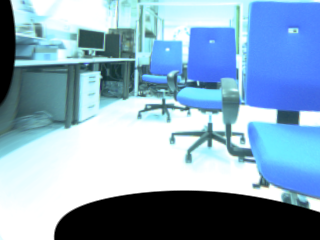
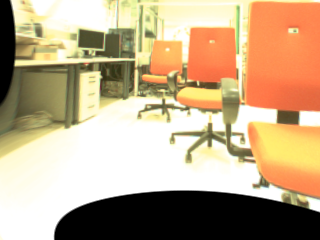
ubuntu: added rgb

diff --git a/ubuntu/depth_map_parameter_tuning/bgr_to_rgb.py b/ubuntu/depth_map_parameter_tuning/bgr_to_rgb.py
@@ -1,0 +1,13 @@
+import cv2
+
+l = "l_bgr_32_sadwin_13_sigma_1.0_lambda_10000.0_time_9.0ms.png"
+r = "r_bgr_32_sadwin_13_sigma_1.0_lambda_10000.0_time_9.0ms.png"
+
+bgr_l = cv2.imread(l)
+bgr_r = cv2.imread(r)
+
+rgb_l = cv2.cvtColor(bgr_l, cv2.COLOR_BGR2RGB)
+rgb_r = cv2.cvtColor(bgr_r, cv2.COLOR_BGR2RGB)
+
+cv2.imwrite("l_rgb_32_sadwin_13_sigma_1.0_lambda_10000.0_time_9.0ms.png", rgb_l)
+cv2.imwrite("r_rgb_32_sadwin_13_sigma_1.0_lambda_10000.0_time_9.0ms.png", rgb_r)
